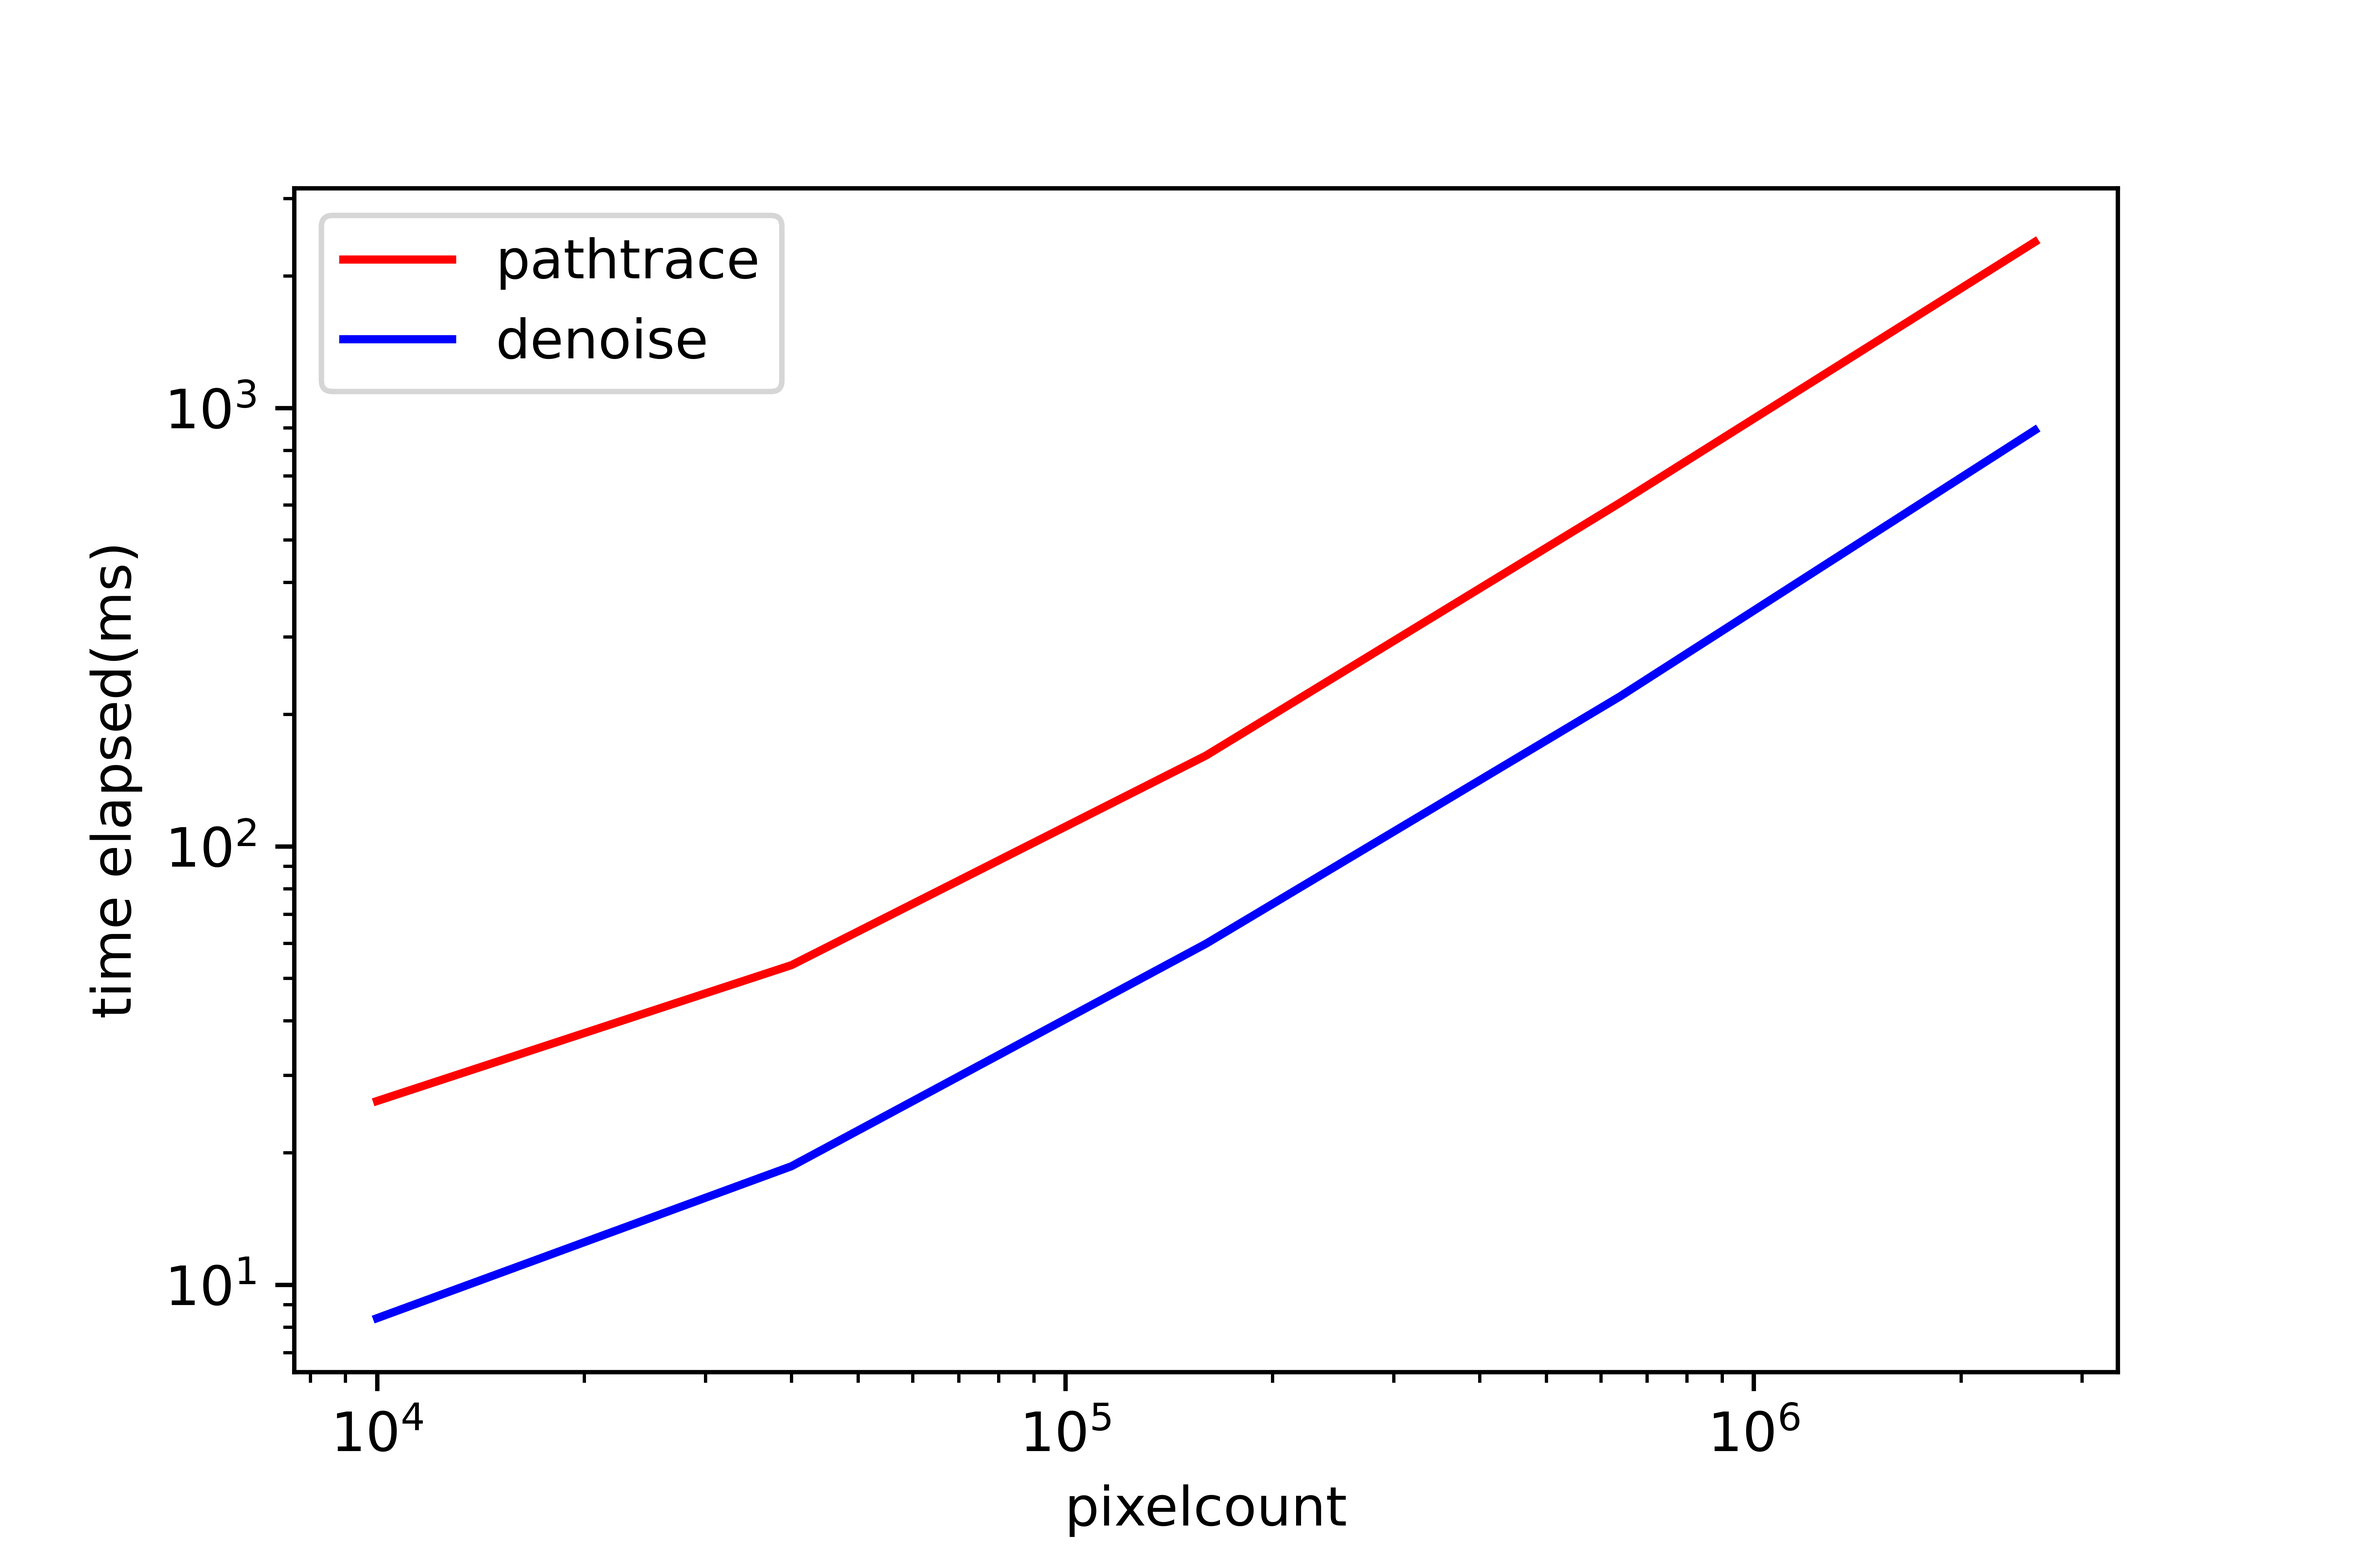
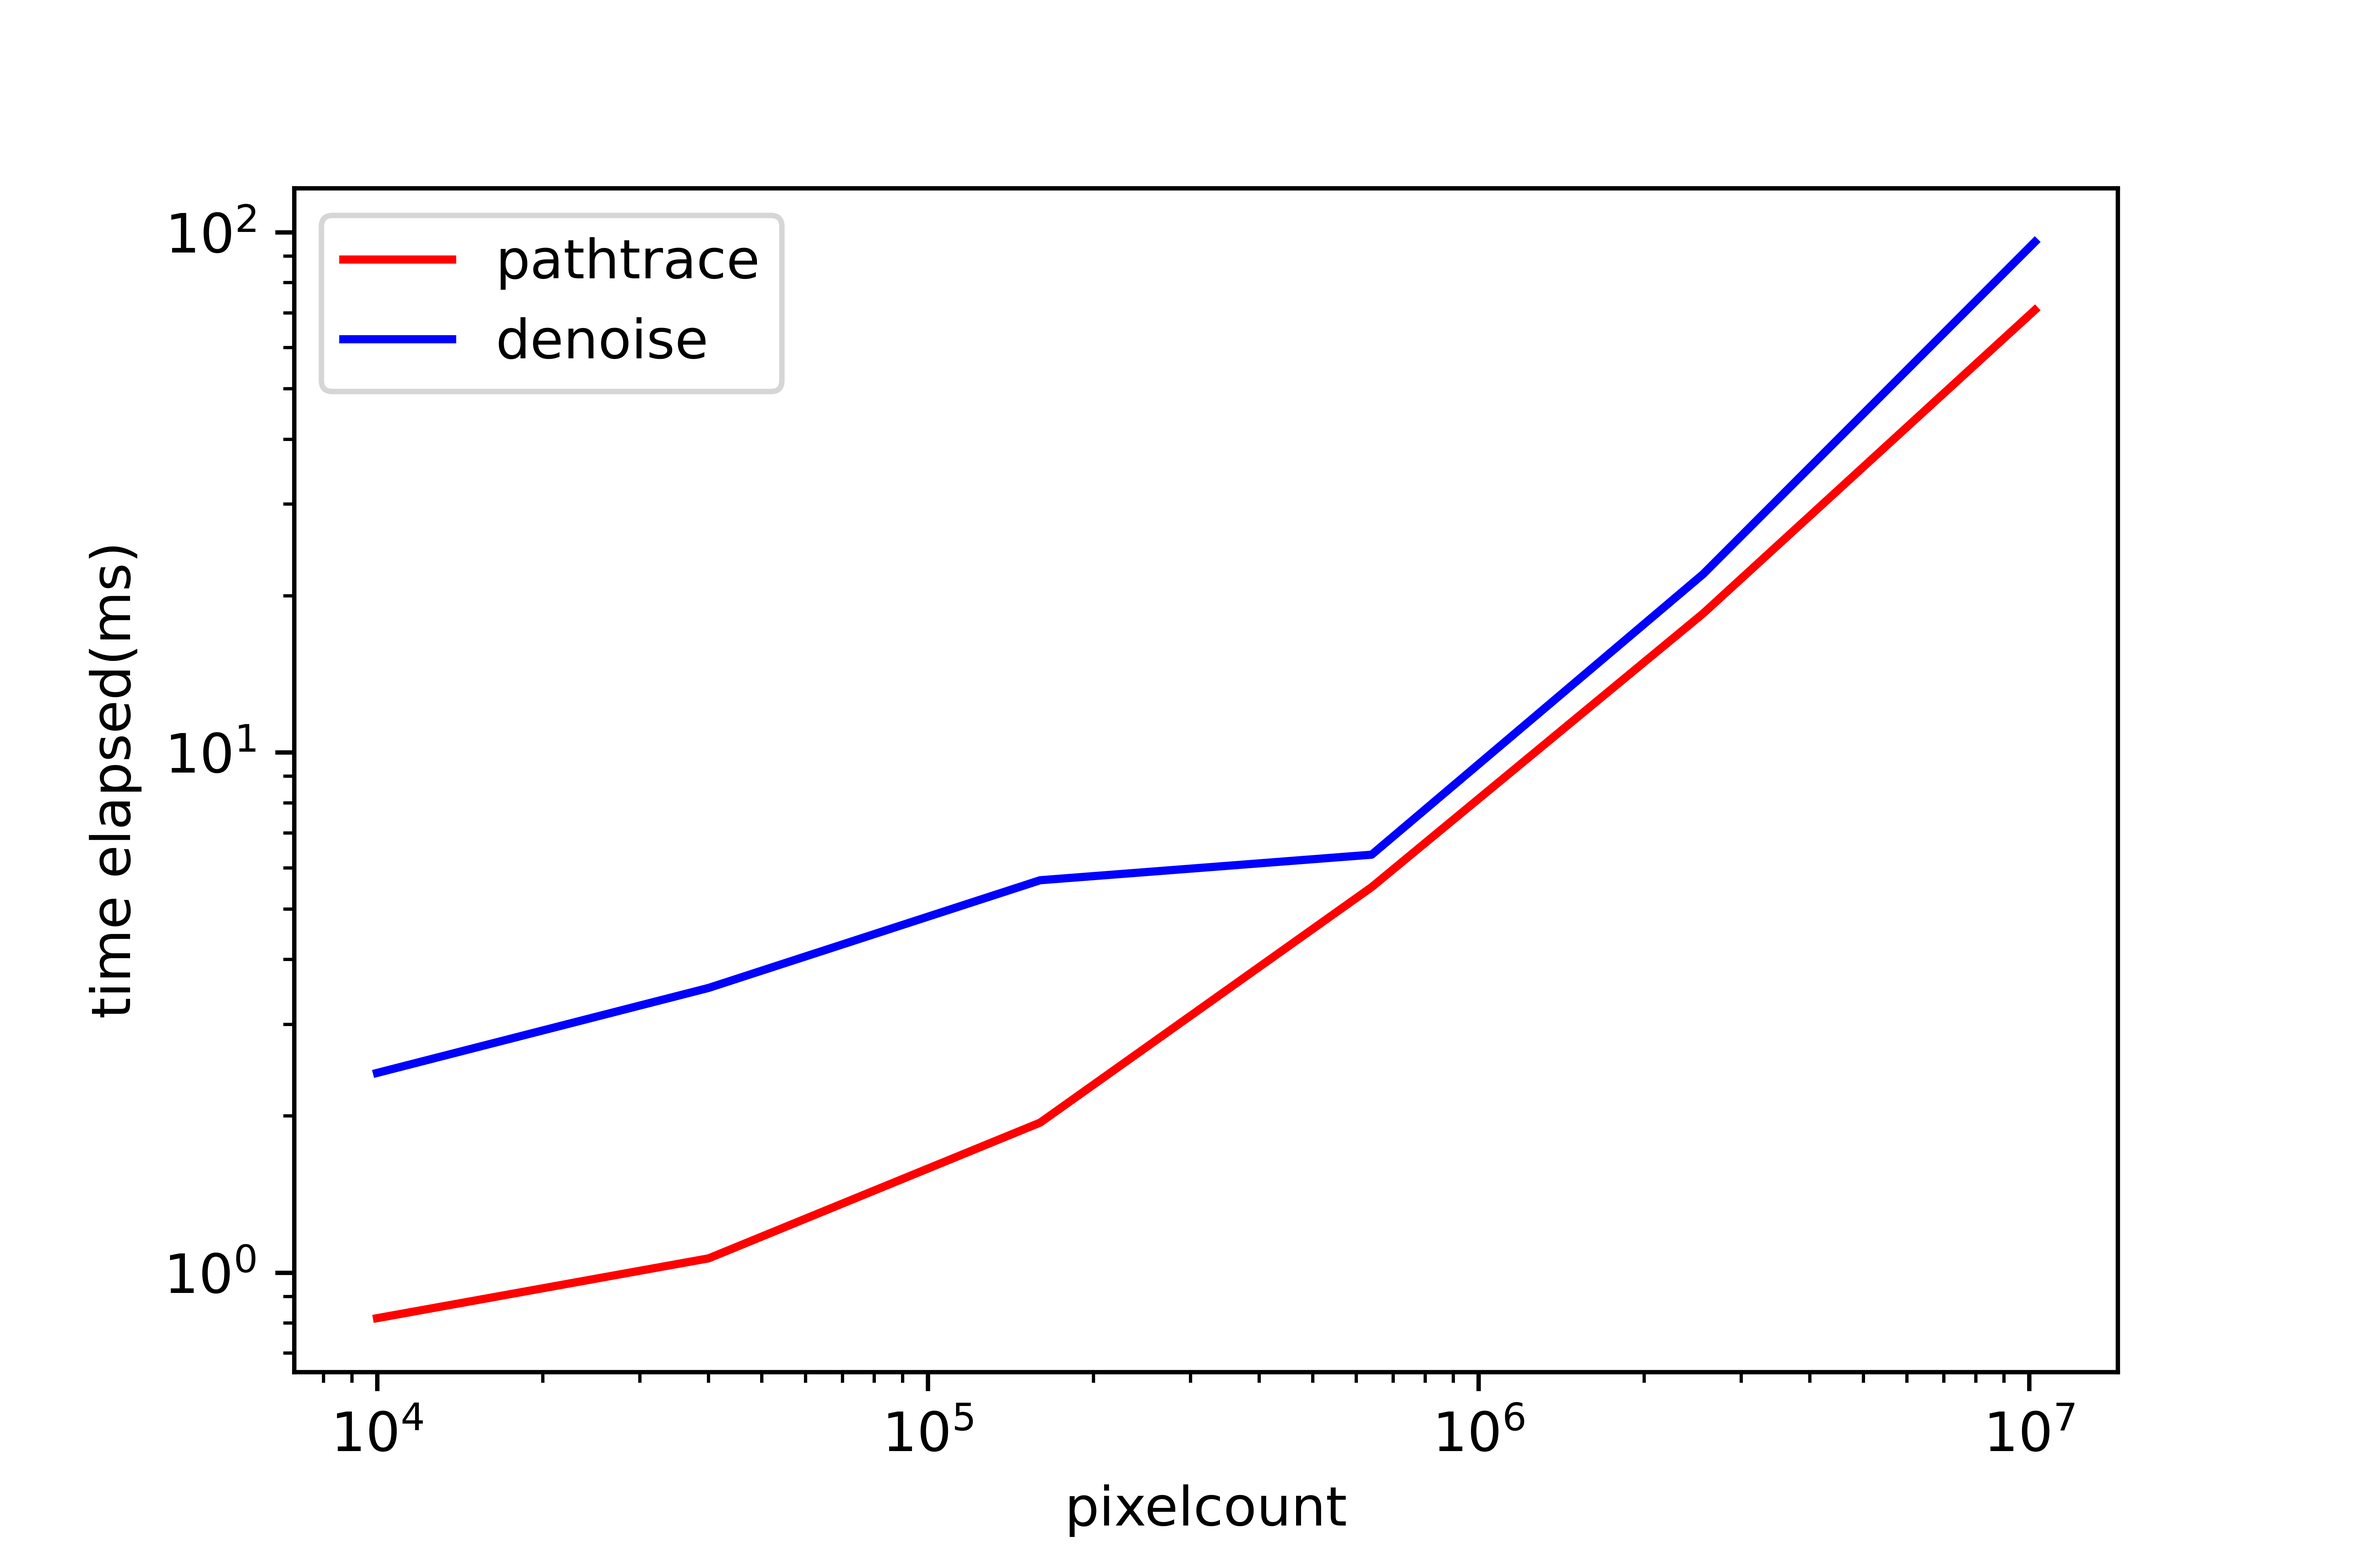
implemented G-buffer Optimizaton and fixed various bugs

diff --git a/src/sceneStructs.h b/src/sceneStructs.h
@@ -7,6 +7,9 @@
 
 #define BACKGROUND_COLOR (glm::vec3(0.0f))
 
+#define OPTIMAL_N 0
+#define OPTIMAL_X 0
+
 enum GeomType {
     SPHERE,
     CUBE,
@@ -78,6 +81,14 @@ struct ShadeableIntersection {
 // CHECKITOUT - a simple struct for storing scene geometry information per-pixel.
 // What information might be helpful for guiding a denoising filter?
 struct GBufferPixel {
+#if OPTIMAL_N
+  glm::vec2 n;
+#else
   glm::vec3 n;
+#endif
+#if OPTIMAL_X
+  float x;
+#else
   glm::vec3 x;
+#endif
 };

diff --git a/src/main.cpp b/src/main.cpp
@@ -24,7 +24,7 @@ int startupIterations = 0;
 int lastLoopIterations = 0;
 bool ui_showGbuffer = false;
 bool ui_denoise = false;
-int ui_filterSize = 20;
+int ui_filterSize = 80;
 float ui_colorWeight = 0.45f;
 float ui_normalWeight = 0.35f;
 float ui_positionWeight = 0.2f;

diff --git a/README.md b/README.md
@@ -31,7 +31,7 @@ To measure the performance, a ground truth image is used to compare with denoise
 ![](img/plot2.png)
 
 
-The denoiser is using a 80*80 filter size. As expected, the runtime of both the pathtracer and the denoiser scale linearly with the number of pixels. 
+The denoiser is using a 80*80 filter size. As expected, the runtime of both the pathtracer and the denoiser scale linearly with the number of pixels when the number of pixels is not too small. When the number of pixels is small, other overheads may dominate the runtime. 
 
 **Runtime with Different Filter Size**
 ![](img/plot3.png)
@@ -91,4 +91,14 @@ The generating kernel is used to approximate gaussian filters. By comparing the 
 |![](img/denoise.png)|![](img/gaussian.png)
 | SSIM = 0.9704 | SSIM = 0.9559 |
 
-However, the gaussian filter have a worse performance with the same filter size as the A-Trous filter. Gaussian filter blurred the reflective sphere. A possible reason is the A-Trous filter have several iterations, and it uses the edge-stopping function at each iteration, so the edge-stopping function actually works for multiple times, and thus the weighted average is more accurate. Another hypothesis is there are still better parameters for Gaussian filter. I choose variance = 30, sigma_c = 5.41, sigma_n = 0.30, sigma_x = 4.94. By tuning variance and weights, we may achieve a better result. However, the runtime of Gaussian filter is not acceptable. With filtersize = 65, the runtime of Gaussian filter is 6027.12ms, while the runtime of A-Trous filter is only 186ms. This is because the A-Trous filter's time complexity is O(nlog(k)), while the Gaussian filter's time complexity is O(nk^2), where n is the pixel count and k is the filter size. 
+However, the gaussian filter have a worse performance with the same filter size as the A-Trous filter. Gaussian filter blurred the reflective sphere. A possible reason is the A-Trous filter have several iterations, and it uses the edge-stopping function at each iteration, so the edge-stopping function actually works for multiple times, and thus the weighted average is more accurate. Another hypothesis is there are still better parameters for Gaussian filter. I choose variance = 30, sigma_c = 5.41, sigma_n = 0.30, sigma_x = 4.94. By tuning variance and weights, we may achieve a better result. However, the runtime of Gaussian filter is not acceptable. With filtersize = 65, the runtime of Gaussian filter is 71ms, while the runtime of A-Trous filter is only 6.15ms. This is because the A-Trous filter's time complexity is O(nlog(k)), while the Gaussian filter's time complexity is O(nk^2), where n is the pixel count and k is the filter size. 
+
+### G-Buffer Optimization
+
+Given the depth, the camera position and the pixel index, we can calculate the position of the object. Thus, we only need to store the depth information in the G-buffer instead of the whole position. This [paper](http://jcgt.org/published/0003/02/01/paper.pdf) also provides a method to encode a 3-d normal vector with oct. With this two method, we can half the size of the G-buff. Here is the runtime
+
+|              | no optimization | optimize normal | optimize position | optimize both |
+|--------------|-----------------|-----------------|-------------------|---------------|
+| time elapsed | 6.15            | 6.258           | 6.104             | 6.517         |
+
+It shows that use depth to store the position information can reduce the runtime slightly, while oct-encode the normal will enlarge the runtime. This may because we didn't futher encode the oct-encoded normal to a single float. Also, the computation for oct-encoding and decoding is a little complex, so the increased computation time is larger than the saved I/O time.
